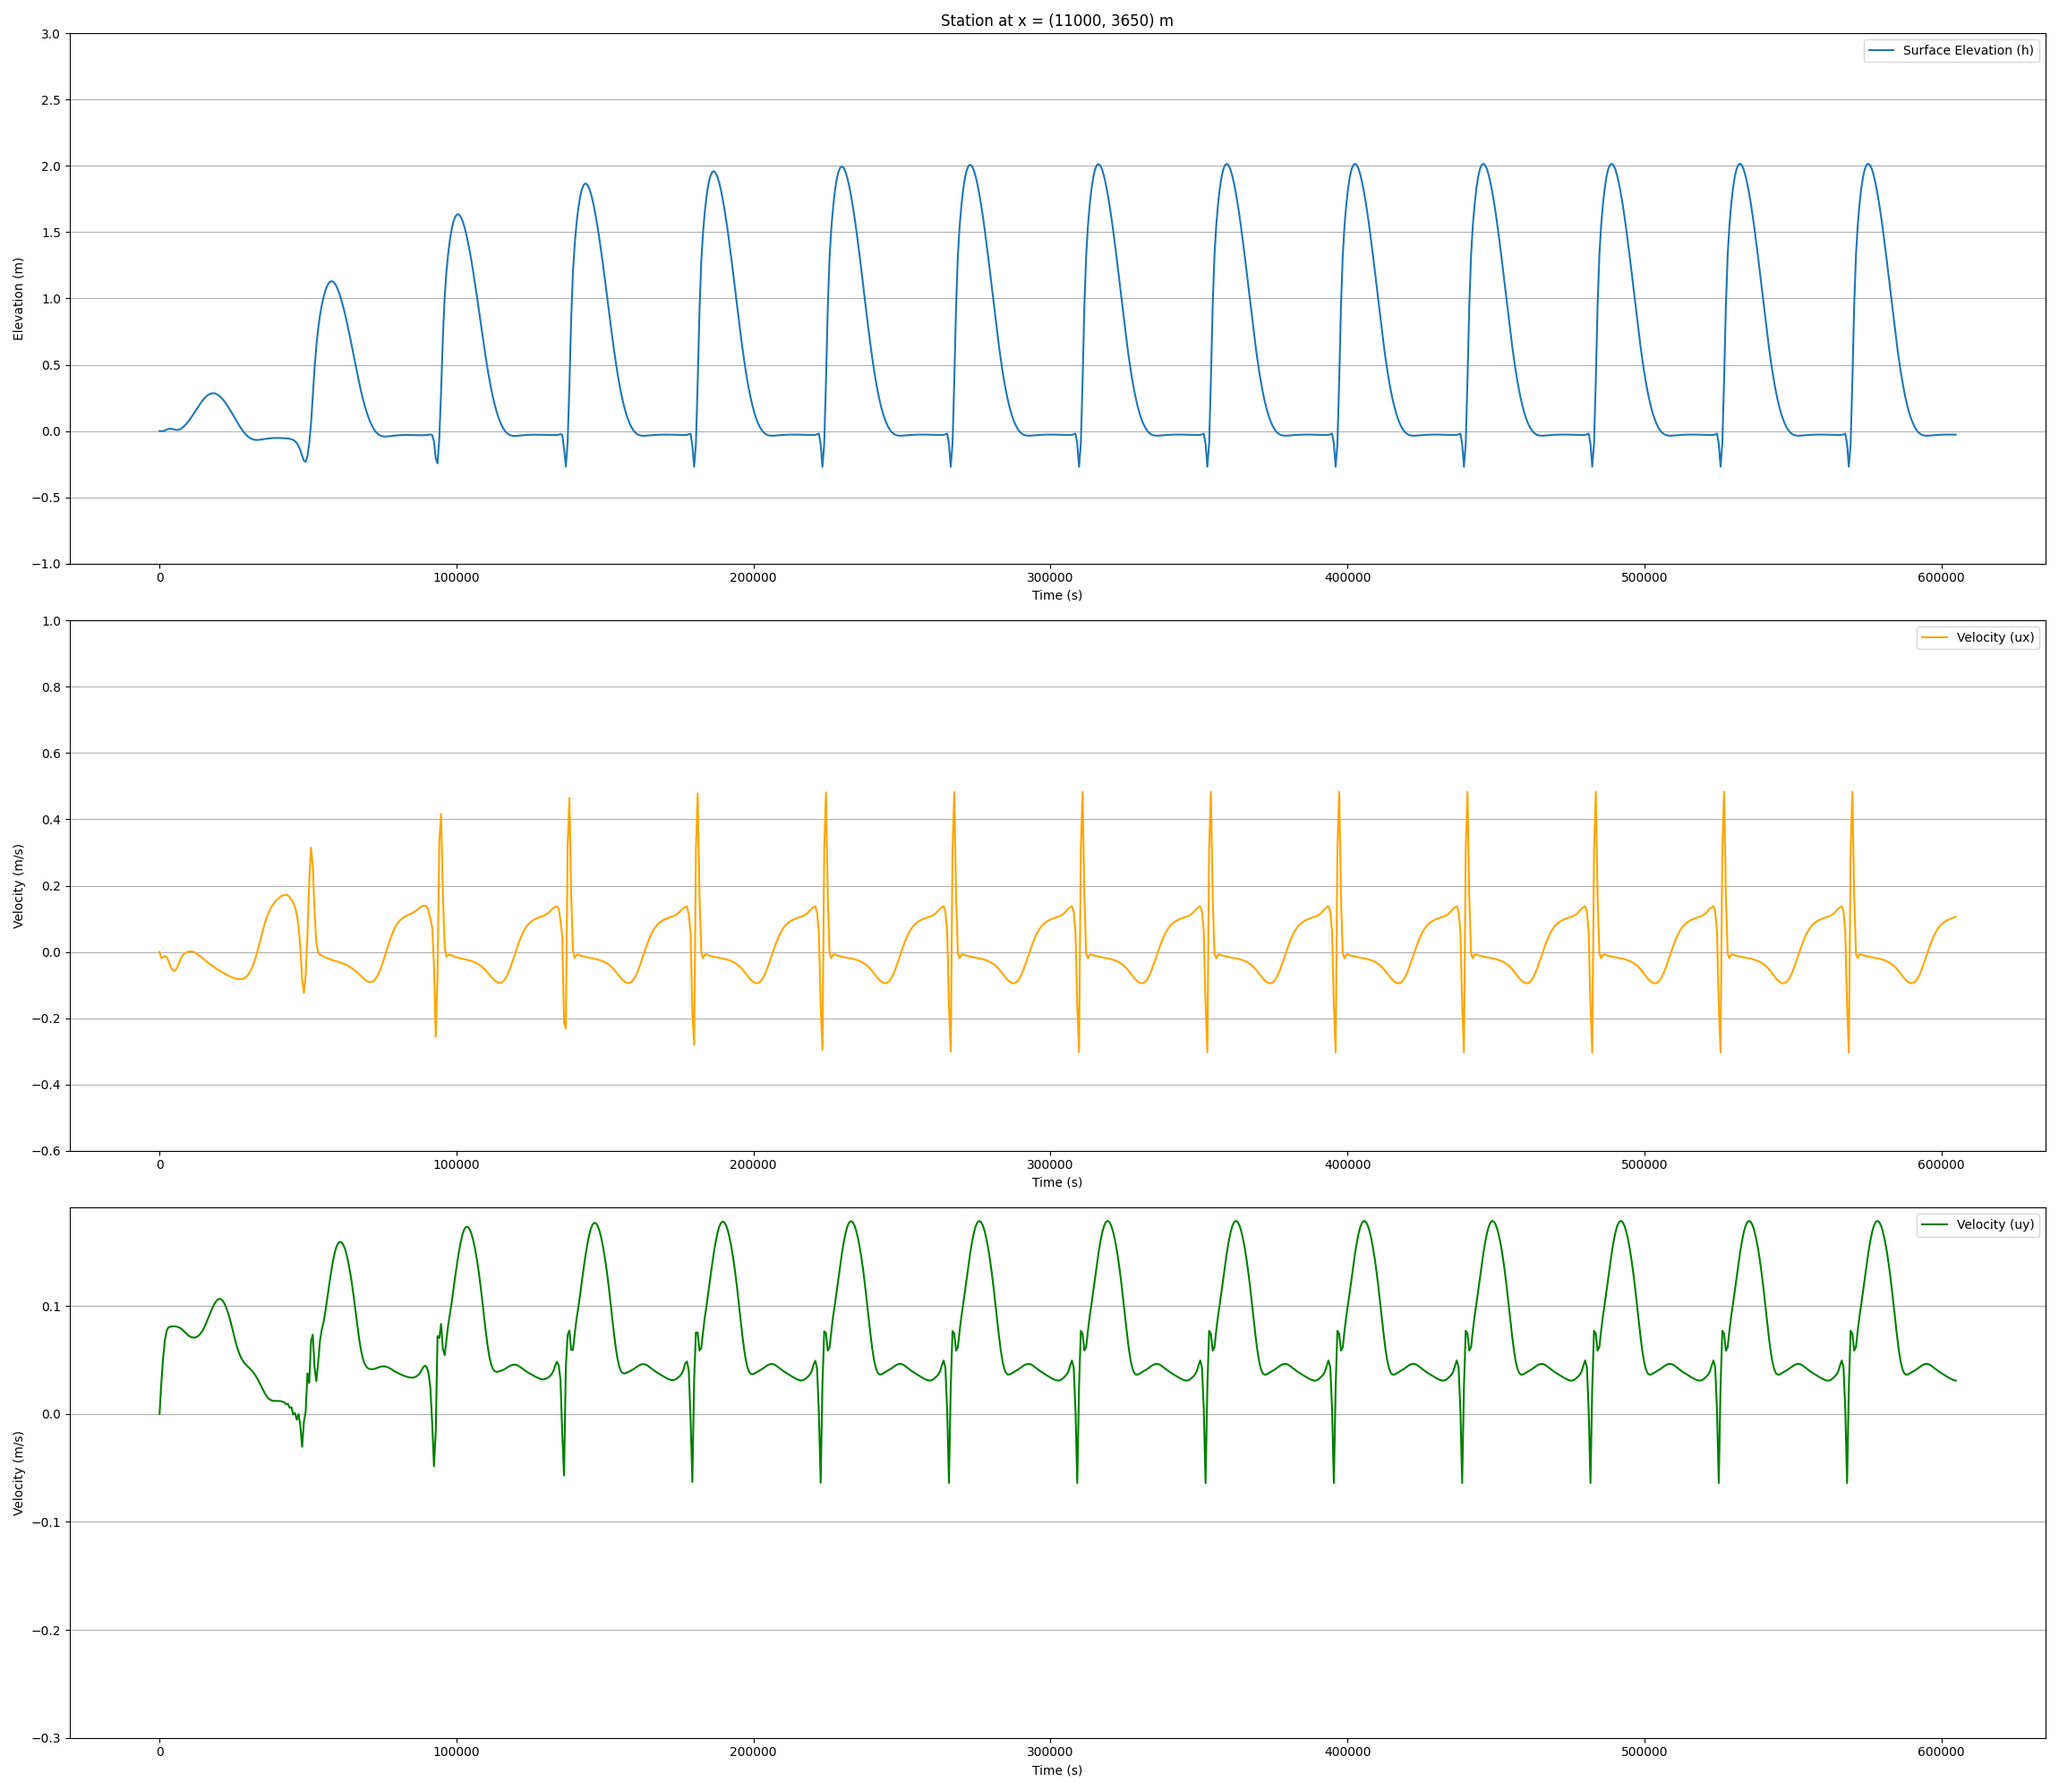
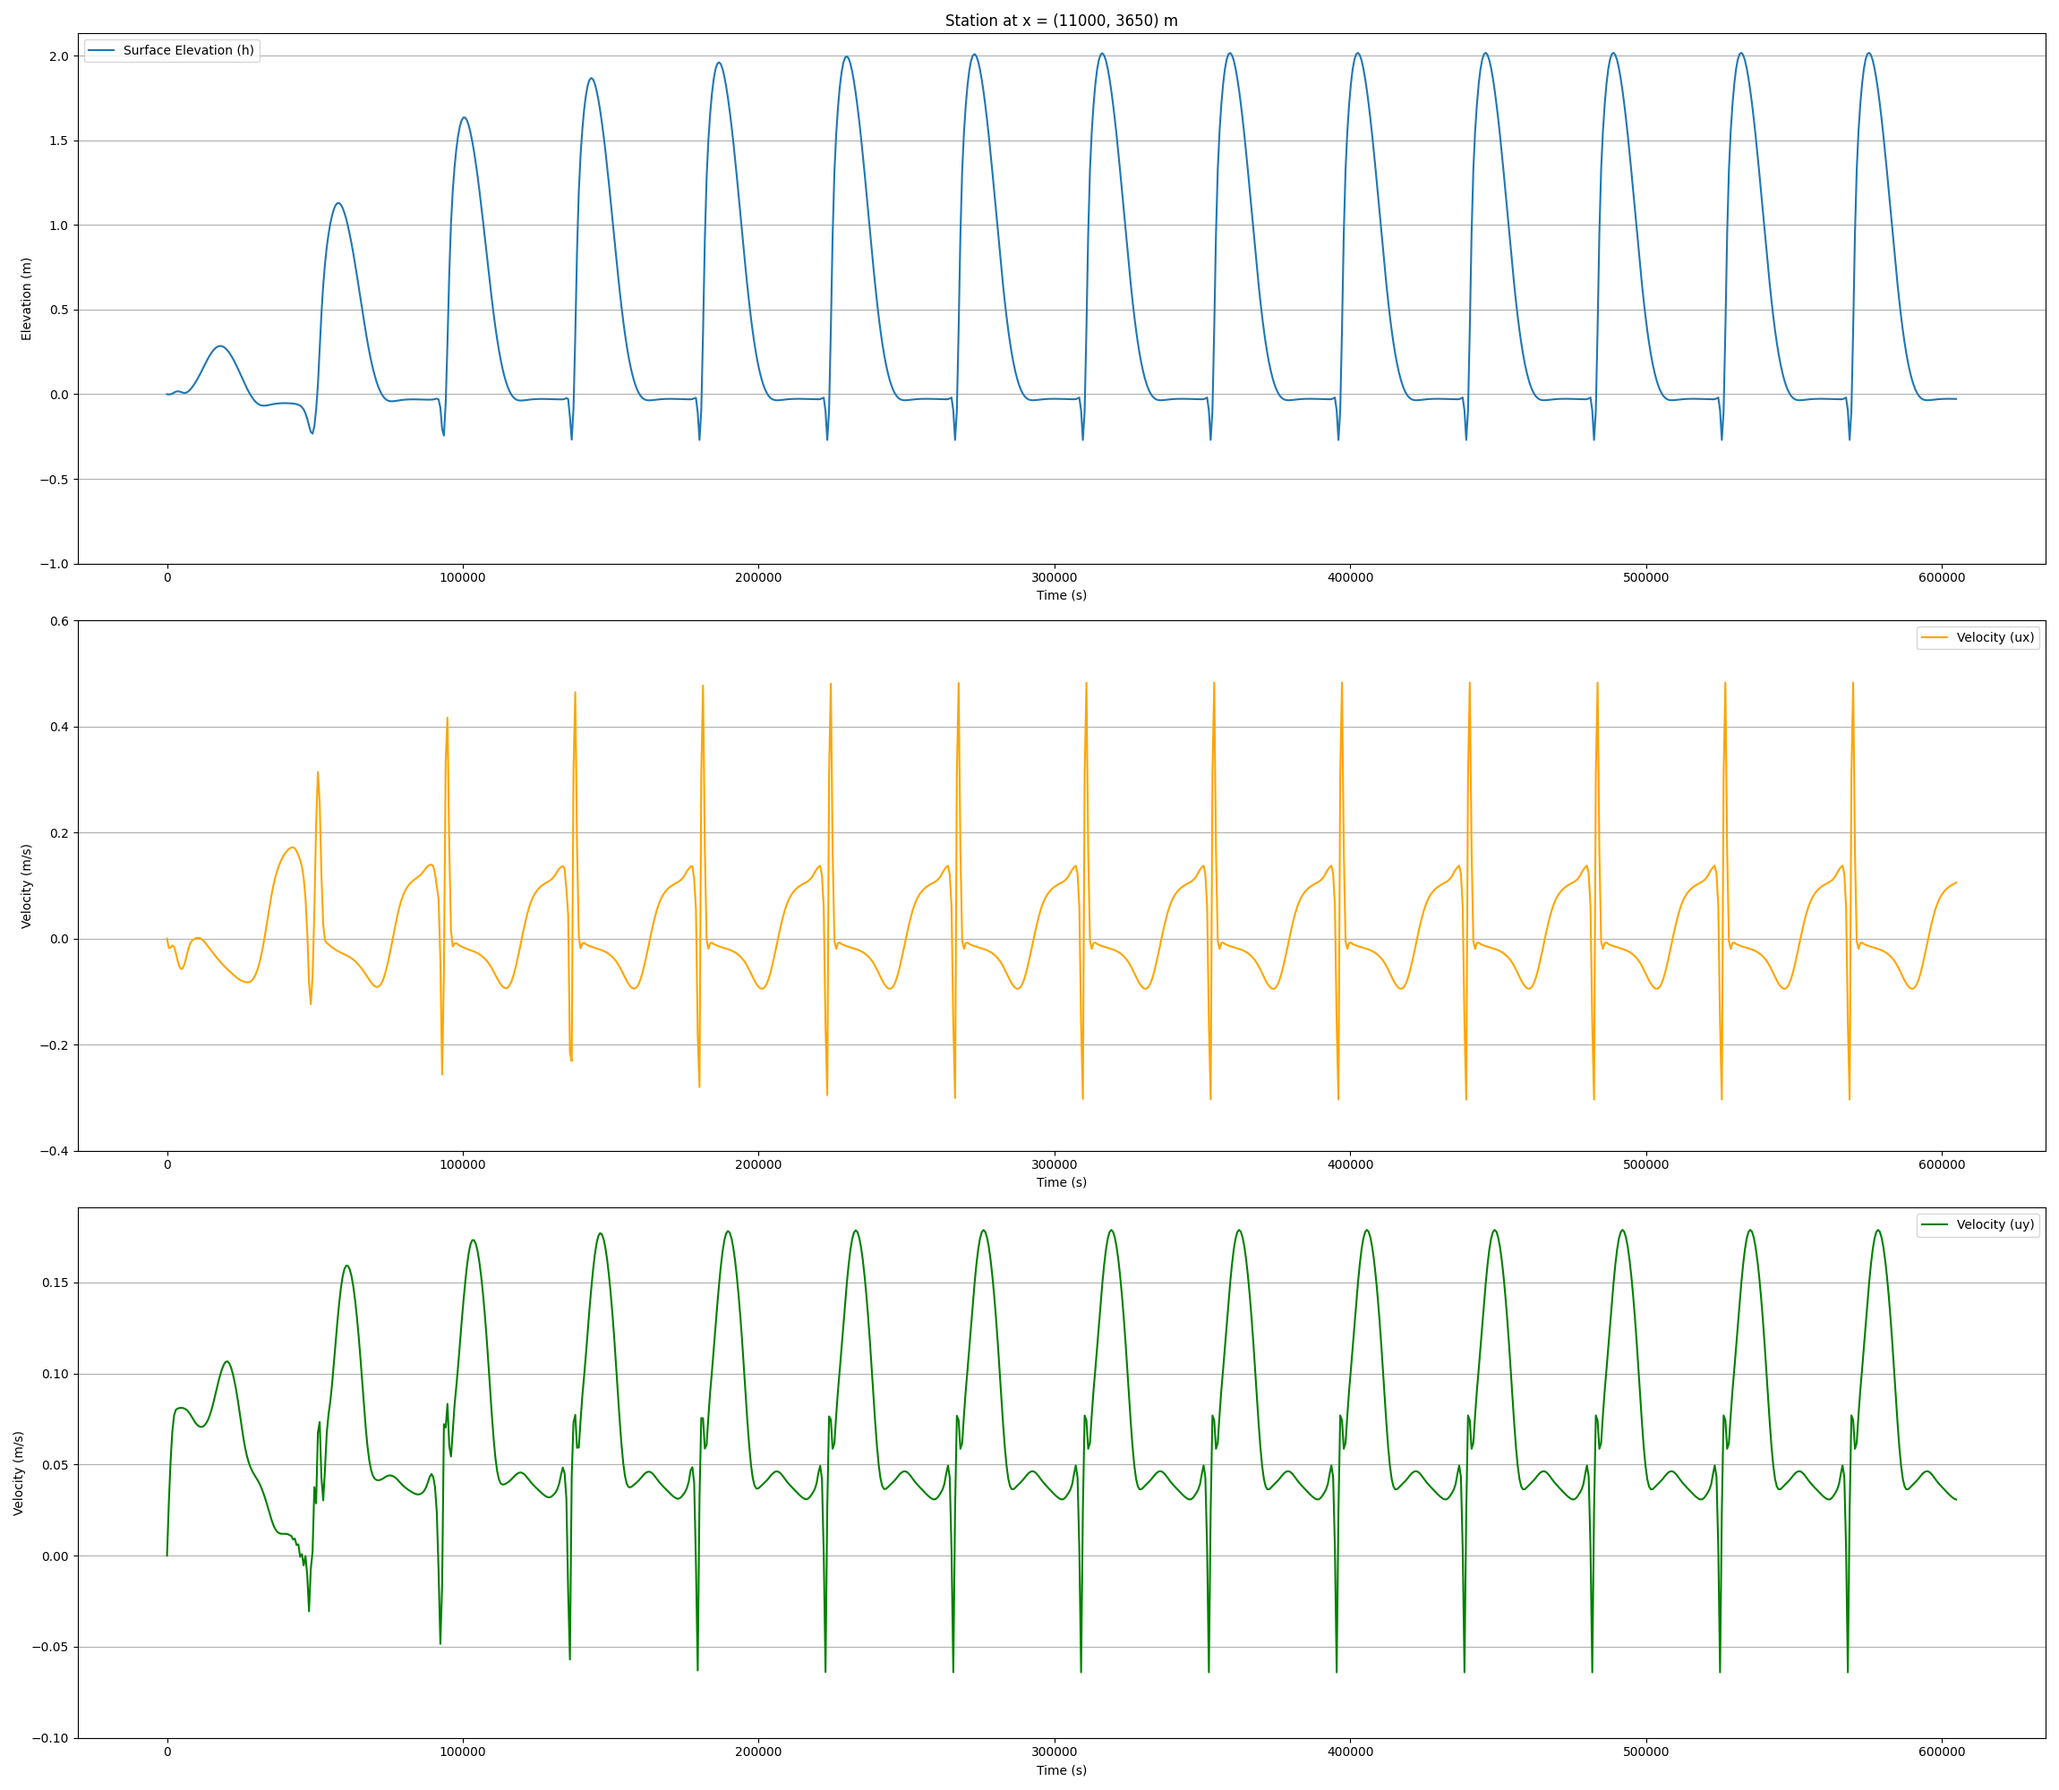
Updated wetdry dg plotting.py and corr images with new ticks

diff --git a/SWEs_2D_SlopedBeachProblem_SWEmniCS_DG/plotting.py b/SWEs_2D_SlopedBeachProblem_SWEmniCS_DG/plotting.py
@@ -24,41 +24,122 @@ def plot_station_timeseries(time_series_data, station_coords):
     # Iterate through each station coordinate
     for coord in station_coords:
         plt.figure(figsize=(23, 20))
-
-        # Plot surface elevation (h)
-        plt.subplot(3, 1, 1)
-        plt.plot(time_series_data[coord]["time"], time_series_data[coord]["h"], label="Surface Elevation (h)")
-        plt.title(f"Station at x = {coord} m")
-        plt.xlabel("Time (s)")
-        plt.ylabel("Elevation (m)")
-        plt.yticks(np.arange(np.floor(min(time_series_data[coord]["h"])), 
-                             np.ceil(max(time_series_data[coord]["h"])) + 0.5, 0.5))  # Set y-ticks at 0.5 intervals
-        plt.grid(axis='y')  # Add grid lines on y-axis
-        plt.legend()
-
-        # Plot velocity in x-direction (ux)
-        plt.subplot(3, 1, 2)
-        plt.plot(time_series_data[coord]["time"], time_series_data[coord]["ux"], label="Velocity (ux)", color="orange")
-        plt.xlabel("Time (s)")
-        plt.ylabel("Velocity (m/s)")
-        plt.yticks(np.arange(np.floor(min(time_series_data[coord]["ux"])) + 0.4, 
-                             np.ceil(max(time_series_data[coord]["ux"])) + 0.1, 0.2))  # Set y-ticks at 0.2 intervals
-        plt.grid(axis='y')
-        plt.legend()
-
-        # Plot velocity in y-direction (uy)
-        plt.subplot(3, 1, 3)
-        plt.plot(time_series_data[coord]["time"], time_series_data[coord]["uy"], label="Velocity (uy)", color="green")
-        plt.xlabel("Time (s)")
-        plt.ylabel("Velocity (m/s)")
-        plt.yticks(np.arange(np.floor(min(time_series_data[coord]["uy"])) + 0.7, 
-                             np.ceil(max(time_series_data[coord]["uy"])) - 0.8, 0.1))  # Set y-ticks at 0.1 intervals
-        plt.grid(axis='y')
-        plt.legend()
-
-        # Adjust layout and save the plot
-        plt.tight_layout()
-        plt.savefig(f"station_{coord}_timeseries_slopeBeach_DG.png")
-        plt.show()
+        if coord == (9000, 3650):
+            # Plot surface elevation (h)
+            plt.subplot(3, 1, 1)
+            plt.plot(time_series_data[coord]["time"], time_series_data[coord]["h"], label="Surface Elevation (h)")
+            plt.title(f"Station at x = {coord} m")
+            plt.xlabel("Time (s)")
+            plt.ylabel("Elevation (m)")
+            # plt.yticks(np.arange(np.floor(min(time_series_data[coord]["h"])), 
+            #                      np.ceil(max(time_series_data[coord]["h"])), 0.5))  # Set y-ticks at 0.5 intervals
+            plt.yticks(np.arange(-1.5, 2.5, 0.5))
+            plt.grid(axis='y')  # Add grid lines on y-axis
+            plt.legend()
+    
+            # Plot velocity in x-direction (ux)
+            plt.subplot(3, 1, 2)
+            plt.plot(time_series_data[coord]["time"], time_series_data[coord]["ux"], label="Velocity (ux)", color="orange")
+            plt.xlabel("Time (s)")
+            plt.ylabel("Velocity (m/s)")
+            # plt.yticks(np.arange(np.floor(min(time_series_data[coord]["ux"])) + 0.4, 
+            #                      np.ceil(max(time_series_data[coord]["ux"])) + 0.1, 0.2))  # Set y-ticks at 0.2 intervals
+            plt.yticks(np.arange(-0.6, 1.2, 0.2))
+            plt.grid(axis='y')
+            plt.legend()
+    
+            # Plot velocity in y-direction (uy)
+            plt.subplot(3, 1, 3)
+            plt.plot(time_series_data[coord]["time"], time_series_data[coord]["uy"], label="Velocity (uy)", color="green")
+            plt.xlabel("Time (s)")
+            plt.ylabel("Velocity (m/s)")
+            # plt.yticks(np.arange(np.floor(min(time_series_data[coord]["uy"])) + 0.7, 
+            #                      np.ceil(max(time_series_data[coord]["uy"])) - 0.8, 0.1))  # Set y-ticks at 0.1 intervals
+            plt.yticks(np.arange(-0.1, 0.11, 0.05))
+            plt.grid(axis='y')
+            plt.legend()
+    
+            # Adjust layout and save the plot
+            plt.tight_layout()
+            plt.savefig(f"station_{coord}_timeseries_slopeBeach_DG.png")
+            plt.show()
+        if coord == (11000, 3650):
+            # Plot surface elevation (h)
+            plt.subplot(3, 1, 1)
+            plt.plot(time_series_data[coord]["time"], time_series_data[coord]["h"], label="Surface Elevation (h)")
+            plt.title(f"Station at x = {coord} m")
+            plt.xlabel("Time (s)")
+            plt.ylabel("Elevation (m)")
+            # plt.yticks(np.arange(np.floor(min(time_series_data[coord]["h"])), 
+            #                      np.ceil(max(time_series_data[coord]["h"])), 0.5))  # Set y-ticks at 0.5 intervals
+            plt.yticks(np.arange(-1, 2.5, 0.5))
+            plt.grid(axis='y')  # Add grid lines on y-axis
+            plt.legend()
+    
+            # Plot velocity in x-direction (ux)
+            plt.subplot(3, 1, 2)
+            plt.plot(time_series_data[coord]["time"], time_series_data[coord]["ux"], label="Velocity (ux)", color="orange")
+            plt.xlabel("Time (s)")
+            plt.ylabel("Velocity (m/s)")
+            # plt.yticks(np.arange(np.floor(min(time_series_data[coord]["ux"])) + 0.4, 
+            #                      np.ceil(max(time_series_data[coord]["ux"])) + 0.1, 0.2))  # Set y-ticks at 0.2 intervals
+            plt.yticks(np.arange(-0.4, 0.61, 0.2))
+            plt.grid(axis='y')
+            plt.legend()
+    
+            # Plot velocity in y-direction (uy)
+            plt.subplot(3, 1, 3)
+            plt.plot(time_series_data[coord]["time"], time_series_data[coord]["uy"], label="Velocity (uy)", color="green")
+            plt.xlabel("Time (s)")
+            plt.ylabel("Velocity (m/s)")
+            # plt.yticks(np.arange(np.floor(min(time_series_data[coord]["uy"])) + 0.7, 
+            #                      np.ceil(max(time_series_data[coord]["uy"])) - 0.8, 0.1))  # Set y-ticks at 0.1 intervals
+            plt.yticks(np.arange(-0.1, 0.151, 0.05))
+            plt.grid(axis='y')
+            plt.legend()
+    
+            # Adjust layout and save the plot
+            plt.tight_layout()
+            plt.savefig(f"station_{coord}_timeseries_slopeBeach_DG.png")
+            plt.show()
+        if coord == (13500, 3650):
+            # Plot surface elevation (h)
+            plt.subplot(3, 1, 1)
+            plt.plot(time_series_data[coord]["time"], time_series_data[coord]["h"], label="Surface Elevation (h)")
+            plt.title(f"Station at x = {coord} m")
+            plt.xlabel("Time (s)")
+            plt.ylabel("Elevation (m)")
+            # plt.yticks(np.arange(np.floor(min(time_series_data[coord]["h"])), 
+            #                      np.ceil(max(time_series_data[coord]["h"])), 0.5))  # Set y-ticks at 0.5 intervals
+            plt.yticks(np.arange(-0.5, 2.5, 0.5))
+            plt.grid(axis='y')  # Add grid lines on y-axis
+            plt.legend()
+    
+            # Plot velocity in x-direction (ux)
+            plt.subplot(3, 1, 2)
+            plt.plot(time_series_data[coord]["time"], time_series_data[coord]["ux"], label="Velocity (ux)", color="orange")
+            plt.xlabel("Time (s)")
+            plt.ylabel("Velocity (m/s)")
+            # plt.yticks(np.arange(np.floor(min(time_series_data[coord]["ux"])) + 0.4, 
+            #                      np.ceil(max(time_series_data[coord]["ux"])) + 0.1, 0.2))  # Set y-ticks at 0.2 intervals
+            plt.yticks(np.arange(-0.3, 1.1, 0.1))
+            plt.grid(axis='y')
+            plt.legend()
+    
+            # Plot velocity in y-direction (uy)
+            plt.subplot(3, 1, 3)
+            plt.plot(time_series_data[coord]["time"], time_series_data[coord]["uy"], label="Velocity (uy)", color="green")
+            plt.xlabel("Time (s)")
+            plt.ylabel("Velocity (m/s)")
+            # plt.yticks(np.arange(np.floor(min(time_series_data[coord]["uy"])) + 0.7, 
+            #                      np.ceil(max(time_series_data[coord]["uy"])) - 0.8, 0.1))  # Set y-ticks at 0.1 intervals
+            plt.yticks(np.arange(-0.1, 0.11, 0.05))
+            plt.grid(axis='y')
+            plt.legend()
+    
+            # Adjust layout and save the plot
+            plt.tight_layout()
+            plt.savefig(f"station_{coord}_timeseries_slopeBeach_DG.png")
+            plt.show()
 
     print('Successfully created and saved station time series plots')
